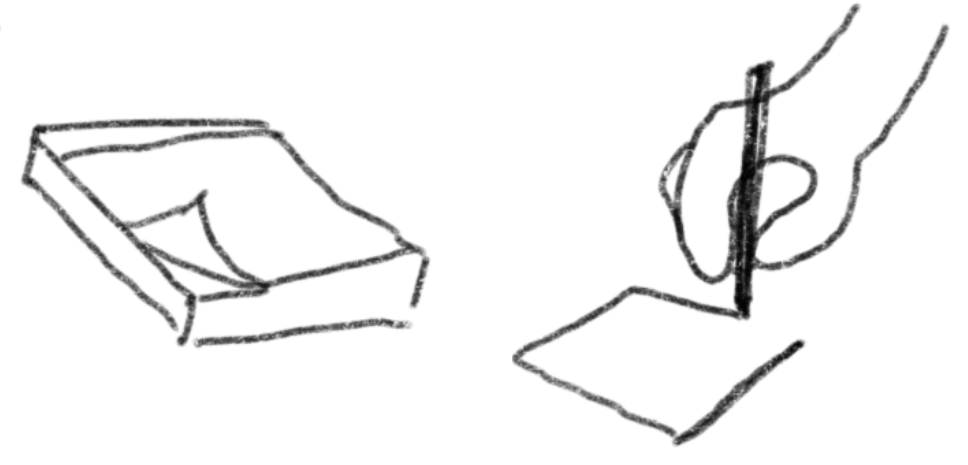
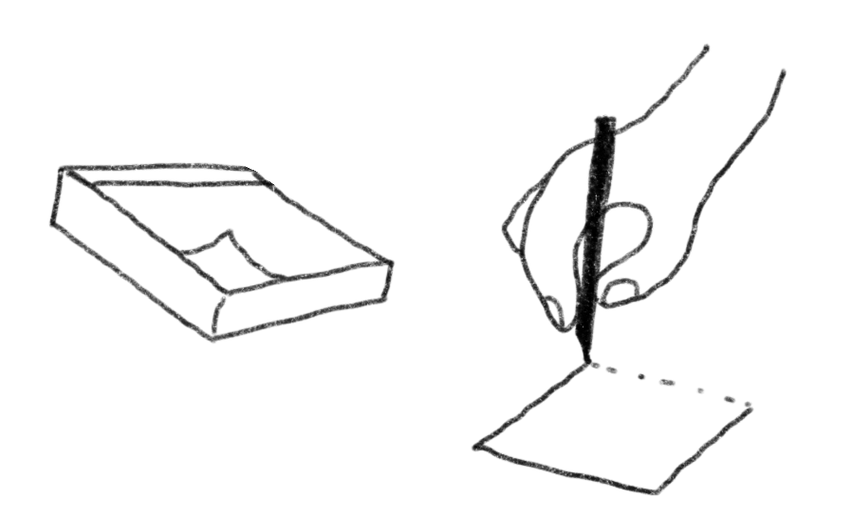
New step illustrations from Figma (add yours-new)
Claude-Session: https://claude.ai/code/session_01H2foKrPwvE5qMn148yp7c5

diff --git a/index.html b/index.html
@@ -402,27 +402,27 @@
     <div class="steps">
       <div class="step">
         <span class="num">1</span>
-        <img loading="lazy" src="illustrations/step1.png" alt="A sticky note pad and a hand drawing a square on paper">
+        <img loading="lazy" style="height: calc(173 * var(--k))" src="illustrations/step1.png" alt="A sticky note pad and a hand drawing a square on paper">
         <p>Draw a square on the paper, or use a sticky note.</p>
       </div>
       <div class="step">
         <span class="num">2</span>
-        <img loading="lazy" src="illustrations/step2.png" alt="A note that starts with “I wish I could…”">
+        <img loading="lazy" style="height: calc(184 * var(--k))" src="illustrations/step2.png" alt="A note that starts with “I wish I could…”">
         <p>Inside the square, write “I wish I could” and complete the sentence. Please don’t include names or contact information in your note.</p>
       </div>
       <div class="step">
         <span class="num">3</span>
-        <img loading="lazy" src="illustrations/step3.png" alt="A phone scanning a QR code">
+        <img loading="lazy" style="height: calc(145 * var(--k))" src="illustrations/step3.png" alt="A phone scanning a QR code">
         <p>Scan the QR code with your phone camera to take a photo of your note, or upload one from your gallery.</p>
       </div>
       <div class="step">
         <span class="num">4</span>
-        <img loading="lazy" src="illustrations/step4.png" alt="A phone taking a photo of a note">
+        <img loading="lazy" style="height: calc(184 * var(--k))" src="illustrations/step4.png" alt="A phone taking a photo of a note">
         <p>Make sure the whole note is inside the photo, with as little background as possible.</p>
       </div>
       <div class="step">
         <span class="num">5</span>
-        <img loading="lazy" src="illustrations/step5.png" alt="A phone showing the note with two buttons">
+        <img loading="lazy" style="height: calc(184 * var(--k))" src="illustrations/step5.png" alt="A phone showing the note with two buttons">
         <p>Check if we captured the text from your note accurately.</p>
       </div>
       <div class="qrCard">
